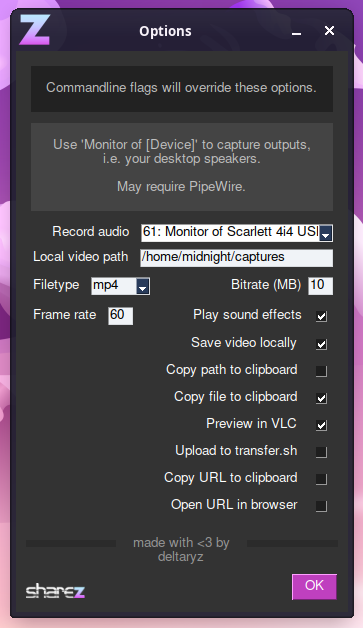
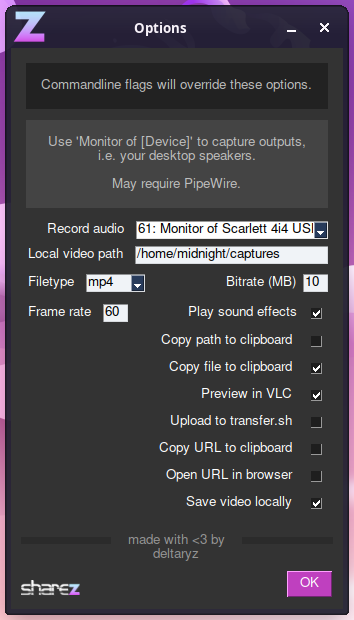
reorder settings to indicate execution order, improve readme

diff --git a/capture.py b/capture.py
@@ -418,10 +418,6 @@ match event:
 
                 ])],
 
-            [  # Save video file locally
-                [sg.Text("Save video locally", justification="right", background_color="#333333", expand_x=True),
-                 sg.Checkbox("", default=savedSettings['save'], key="save", background_color="#333333")]
-            ],
             [  # Copy file path to clipboard
                 [sg.Text("Copy path to clipboard", justification="right", background_color="#333333", expand_x=True),
                  sg.Checkbox("", default=savedSettings['copypath'], key="copypath", background_color="#333333")]
@@ -446,6 +442,10 @@ match event:
             [  # Open URL in browser
                 [sg.Text("Open URL in browser", justification="right", background_color="#333333", expand_x=True),
                  sg.Checkbox("", default=savedSettings['openinbrowser'], key="openinbrowser", background_color="#333333")]
+            ],
+            [  # Save video file locally
+                [sg.Text("Save video locally", justification="right", background_color="#333333", expand_x=True),
+                 sg.Checkbox("", default=savedSettings['save'], key="save", background_color="#333333")]
             ],
             [
                 [sg.Stretch(background_color="#2b2b2b"),

diff --git a/README.md b/README.md
@@ -2,7 +2,7 @@
 
 Finally. Your desktop recording prayers have been answered.
 
-This is a [ShareX](https://getsharex.com/)-inspired video recording utility for Linux/X11, engineered for ease-of-use and convenience. 
+This is a [ShareX](https://getsharex.com/)-inspired video recording utility for Linux/X11, engineered to minimize required clicks/keypresses and be friendly to scripting and automation.
 
 ![Demonstration of script usage](img/demo.gif)
 
@@ -49,6 +49,8 @@ By default, recordings will save to `~/Videos`.
 
 All of these parameters are configurable in the GUI settings menu, and saved in `~/.config/sharez/config.json`. Command flags take priority over saved settings.
 
+Checkboxes/flags are listed in the order they are executed by the program.
+
 ![Screenshot of settings menu](img/options.png)
 
 ### NOTE: While developing this, transfer.sh appears to have gone offline. Curl will freeze while trying to upload. If it doesn't come back, I will look into alternatives.
@@ -62,19 +64,32 @@ All of these parameters are configurable in the GUI settings menu, and saved in 
   * Supports pulseaudio device IDs obtained with `pactl list short sources`
   * `default` uses ALSA default, can be configured with `pavucontrol`
   * Can be `disabled`
-* `--path=/home/example` - path to save video
-* `--save=true` - keep local recording after script finishes
+* `--path=/home/example/Videos` - path to save video
+* `--framerate=60` - recording framerate (lower this if your PC can't keep up)
 * `--soundfx=true` - play sound effects
 * `--copy-path=false` - copy file path to clipboard
 * `--copy-file=true` - copy file to clipboard
+* `--preview=false` - open the video in VLC to preview (requires VLC to be installed)
 * `--upload=false` - upload to transfer.sh
 * `--copy-url=true` - copy URL to clipboard
-* `--framerate=60` - recording framerate (lower this if your PC can't keep up)
-* `--preview=true` - open the video in VLC to preview (requires VLC to be installed)
+* `--save=true` - keep local recording after script finishes
 
-Example command: 
+Example command to upload to transfer.sh and remove local file after finishing: 
 ```sh
-python3 capture.py --filename=$(date '+%Y-%m-%d_%H.%M.%S').webm --upload=true --copy-url=true --path=/home/somebody/captures
+python3 capture.py --filename=$(date '+%Y-%m-%d_%H.%M.%S').webm --upload=true --copy-url=true --save=false
+```
+
+Example script to use in conjunction with personal webserver:
+```bash
+#!/bin/bash
+
+FILENAME=$(date '+%Y-%m-%d_%H.%M.%S').mp4
+FILEPATH=/example/www/s/
+SHARE_URL=https://example.website/s/
+
+python3 capture.py --filename=$FILENAME --path=$FILEPATH
+
+echo $SHARE_URL$FILENAME | xclip -i -selection clipboard
 ```
 
 ## Audio Capture:
